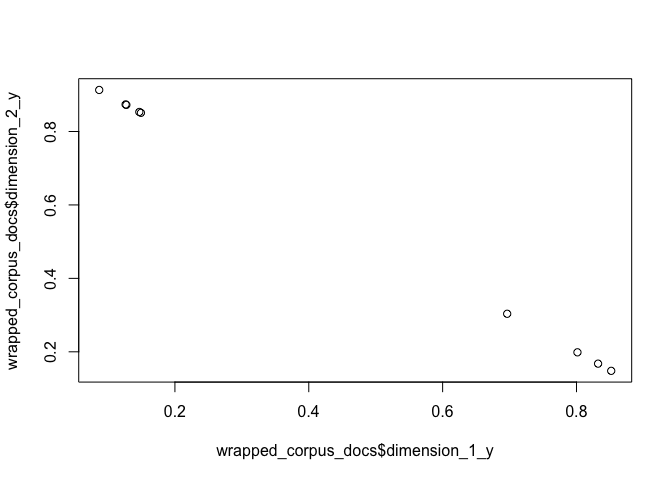
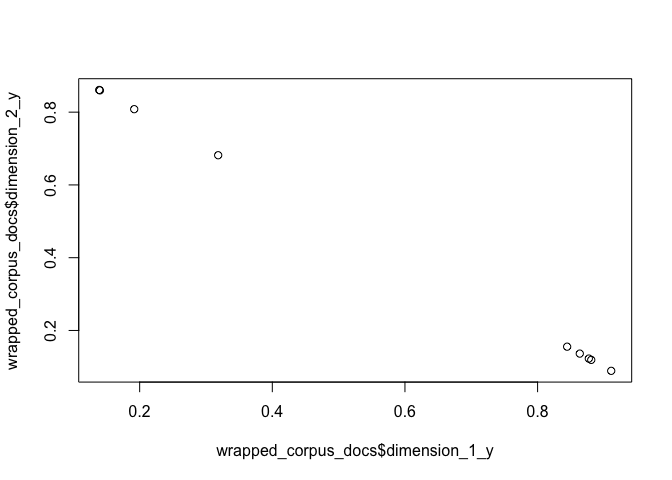
get_sim fixed

diff --git a/README.md b/README.md
@@ -1,15 +1,23 @@
 
 <!-- README.md is generated from README.Rmd. Please edit that file -->
+
 <!-- badges: start -->
-[![Lifecycle: experimental](https://img.shields.io/badge/lifecycle-experimental-orange.svg)](https://www.tidyverse.org/lifecycle/#experimental) [![Travis build status](https://travis-ci.org/news-r/gensimr.svg?branch=master)](https://travis-ci.org/news-r/gensimr) <!-- badges: end -->
 
-gensimr
-=======
+[![Lifecycle:
+experimental](https://img.shields.io/badge/lifecycle-experimental-orange.svg)](https://www.tidyverse.org/lifecycle/#experimental)
+[![Travis build
+status](https://travis-ci.org/news-r/gensimr.svg?branch=master)](https://travis-ci.org/news-r/gensimr)
+<!-- badges: end -->
 
-Brings [gensim](https://radimrehurek.com/gensim) to R: efficient large-scale topic modeling.
+# gensimr
 
-Installation
-------------
+Brings [gensim](https://radimrehurek.com/gensim) to R: efficient
+large-scale topic modeling.
+
+⚠ Notice the “Experimental” lifecycle badge: things won’t work, stuff
+will break.
+
+## Installation
 
 Install the package.
 
@@ -24,20 +32,24 @@ Install the python dependency.
 gensimr::install_gensim()
 ```
 
-Ideally one should use a virtual environment and pass it to `install_gensim`, only do this once.
+Ideally one should use a virtual environment and pass it to
+`install_gensim`, only do this once.
 
 ``` r
+# replace with path of your choice
 my_env <- "./env"
+
+# run this (works on unix)
 args <- paste("-m venv", env)
 system2("python3", args) # create environment
 reticulate::use_virtualenv(my_env) # force reticulate to use env
 gensimr::install_gensim(my_env) # install gensim in environment
 ```
 
-Topics
-------
+## Topics
 
-First we preprocess the corpus using example data, a tiny corpus of 9 documents.
+First we preprocess the corpus using example data, a tiny corpus of 9
+documents.
 
 ``` r
 library(gensimr)
@@ -68,7 +80,10 @@ dictionary <- corpora_dictionary(docs)
 
 A dictionary essentially assigns an integer to each term.
 
-`doc2bow` simply applies the method of the same name to every documents (see example below); it counts the number of occurrences of each distinct word, converts the word to its integer word id and returns the result as a sparse vector.
+`doc2bow` simply applies the method of the same name to every documents
+(see example below); it counts the number of occurrences of each
+distinct word, converts the word to its integer word id and returns the
+result as a sparse vector.
 
 ``` r
 # native method to a single document
@@ -79,15 +94,18 @@ dictionary$doc2bow(docs[[1]])
 corpus_bow <- doc2bow(dictionary, docs)
 ```
 
-Then convert to matrix market format and serialise, the function returns the path to the file (this is saved on disk for efficiency), if no path is passed then a temp file is created.
+Then convert to matrix market format and serialise, the function returns
+the path to the file (this is saved on disk for efficiency), if no path
+is passed then a temp file is created.
 
 ``` r
 (corpus_mm <- mmcorpus_serialize(corpus_bow))
-#> ℹ Path: /tmp/RtmpN21h1S/file2d394a47799a.mm 
+#> ℹ Path: /var/folders/n9/ys9t1h091jq80g4hww24v8g0n7v578/T//RtmpcYNbSs/file13c137d20faf.mm 
 #>  ✔ Temp file
 ```
 
-Then initialise a model, we're going to use a Latent Similarity Indexing method later on (`model_lsi`) which requires td-idf.
+Then initialise a model, we’re going to use a Latent Similarity Indexing
+method later on (`model_lsi`) which requires td-idf.
 
 ``` r
 tfidf <- model_tfidf(corpus_mm)
@@ -99,7 +117,9 @@ We can then use the model to transform our original corpus.
 corpus_transformed <- wrap(tfidf, corpus_bow)
 ```
 
-Finally, we can build models, the number of topics of `model_*` functions defautls to 2, which is too low for what we generally would do with gensimr but works for the low number of documents we have.
+Finally, we can build models, the number of topics of `model_*`
+functions defautls to 2, which is too low for what we generally would do
+with gensimr but works for the low number of documents we have.
 
 ### Latent Similarity Index
 
@@ -112,7 +132,9 @@ lsi$print_topics()
 #> [(0, '0.703*"trees" + 0.538*"graph" + 0.402*"minors" + 0.187*"survey" + 0.061*"system" + 0.060*"time" + 0.060*"response" + 0.058*"user" + 0.049*"computer" + 0.035*"interface"'), (1, '-0.460*"system" + -0.373*"user" + -0.332*"eps" + -0.328*"interface" + -0.320*"time" + -0.320*"response" + -0.293*"computer" + -0.280*"human" + -0.171*"survey" + 0.161*"trees"')]
 ```
 
-We can then wrap the model around the corpus to extract further information, below we extract how each document contribute to each dimension (topic).
+We can then wrap the model around the corpus to extract further
+information, below we extract how each document contribute to each
+dimension (topic).
 
 ``` r
 wrapped_corpus <- wrap(lsi, corpus_transformed)
@@ -164,14 +186,17 @@ plot(wrapped_corpus_docs$dimension_1_y, wrapped_corpus_docs$dimension_2_y)
 
 <img src="man/figures/README-unnamed-chunk-11-1.png" width="100%" />
 
-Similarity
-----------
+## Similarity
 
 ``` r
 corpus_mm <- mmcorpus_serialize(corpus_bow)
 mm <- read_serialized_mmcorpus(corpus_mm)
 
-vec_bow <- dictionary$doc2bow(c("human", "computer", "interaction"))
+new_document <- "A human and computer interaction"
+preprocessed_new_document <- preprocess(new_document, min_freq = 0)
+#> → Preprocessing 1 documents
+#> ← 1 documents after perprocessing
+vec_bow <- doc2bow(dictionary, preprocessed_new_document)
 vec_lsi <- wrap(lsi, vec_bow)
 
 wrapped_lsi <- wrap(lsi, mm)
@@ -179,13 +204,7 @@ index <- similarity_matrix(wrapped_lsi)
 
 sims <- wrap(index, vec_lsi)
 
-x <- reticulate::py_to_r(sims)
-tibble::tibble(
-  doc = 1:reticulate::py_len(sims),
-  cosine = x
-) %>% 
-  dplyr::mutate(doc = doc - 1) %>% 
-  dplyr::arrange(-cosine)
+get_similarity(sims)
 #> # A tibble: 9 x 2
 #>     doc  cosine
 #>   <dbl>   <dbl>
